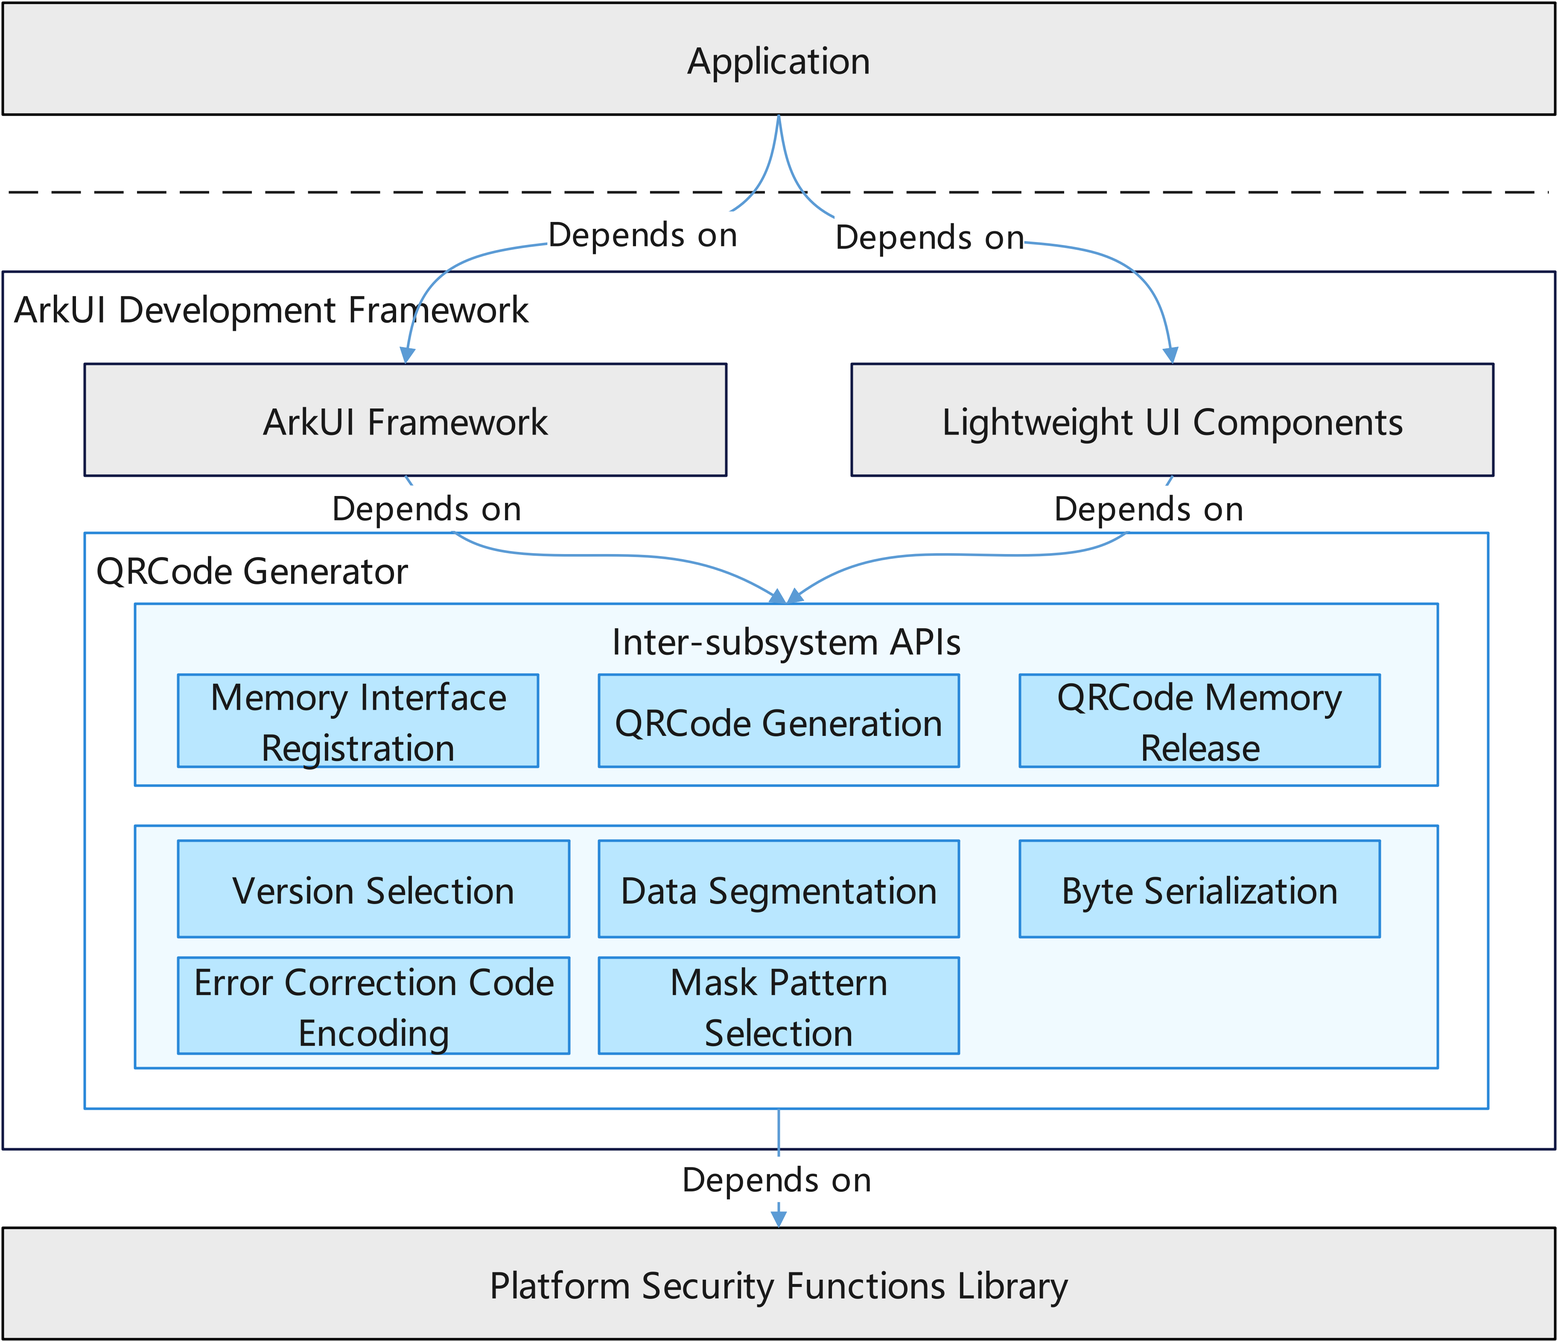
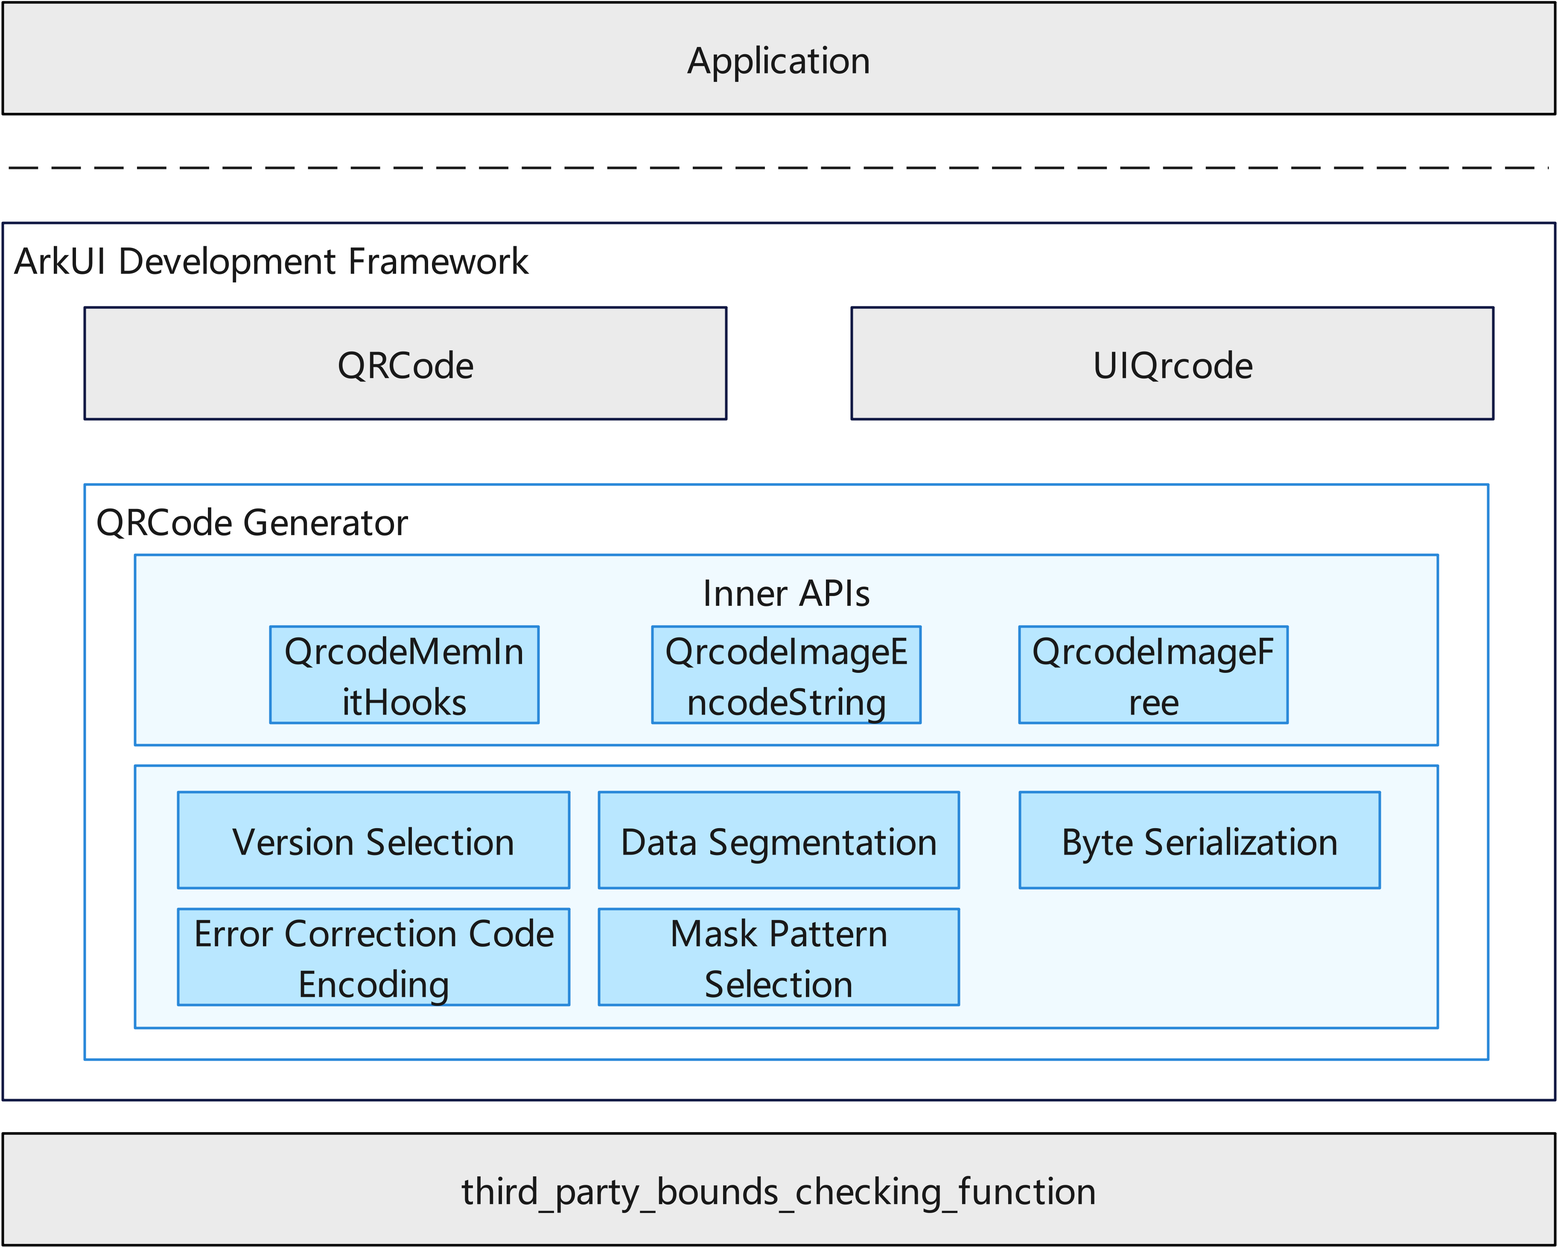
修改架构图和readme

diff --git a/README.md b/README.md
@@ -1,50 +1,39 @@
-# QRCode Generator<a name="EN-US_TOPIC_0000000000000001"></a>
-
--   [Introduction](#section1111111111111)
--   [Architecture](#section2222222222222)
--   [Directory Structure](#section3333333333333)
--   [Constraints](#section4444444444444)
--   [Build](#section5555555555555_b)
--   [Usage](#section5555555555555)
-    -   [Available APIs](#section6666666666666)
-    -   [Usage Guidelines](#section7777777777777)
--   [Third-Party Dependencies](#section9999999999999)
+# QR Code Generator<a name="ZH-CN_TOPIC_0000000000000001">
 
 ## Introduction<a name="section1111111111111"></a>
 
-The QRCode Generator provides QRCode generation capability for the OpenHarmony system. QRCode is a widely-used encoding technology that has been proven in the market. It features high information capacity, strong reliability, and excellent confidentiality and anti-counterfeiting properties. The QRCode Generator follows the ISO/IEC 18004:2015 standard, supporting QRCode generation from Version 1 to Version 40, with flexible error correction level options.
+The QR Code Generator provides QR code generation capability for the OpenHarmony system. QR code is a widely-used encoding technology that has stood the test of market verification. It offers high information capacity, reliability, and strong confidentiality and anti-counterfeiting features. The QR Code Generator follows the [**ISO/IEC 18004:2015 standard**](https://www.iso.org/obp/ui/es/#iso:std:iso-iec:18004:ed-3:v1:en), supporting QR Code generation from Version 1 to Version 40, with flexible error correction level options.
 
--   **Encoding Mode Support:** The QRCode Generator supports Numeric mode, Alphanumeric mode, and Byte mode to meet various data encoding requirements.
+-   **Encoding Mode Support:** The QR Code Generator supports Numeric mode, Alphanumeric mode, and Byte mode, meeting data encoding requirements for different scenarios.
+-   **Error Correction Capability:** Depending on the error correction level, QR codes can be successfully decoded even when 25% to 30% of the codewords are obscured, ensuring the QR code can still be scanned even when partially damaged.
+-   **Memory Management:** Provides custom memory allocation hooks, allowing developers to inject their own memory management functions for memory optimization on embedded devices.
+-   **Form Support:** Supports three forms: standard, mini, and small. The standard form is used for the QRCode control, the mini form is used for the UIQrcode control, and the small form is not currently used by any control.
 
--   **Error Correction Capability:** Depending on the error correction level, QRCode can be successfully decoded even when 25% to 30% of the codewords are obscured, ensuring the QRCode remains scannable even with partial damage.
+## System Architecture<a name="section2222222222222"></a>
 
--   **Memory Management:** Provides customizable memory allocation hooks, allowing developers to inject their own memory management functions for easier memory optimization on embedded devices.
+**Figure 1**  QR Code Generator Architecture<a name="fig1111111111111"></a>
 
-## Architecture<a name="section2222222222222"></a>
+![](figures/qrcode_generator.png "QR Code Generator Architecture")
 
-**Figure  1**  QRCode Generator architecture<a name="fig1111111111111"></a>  
-![](figures/qrcode_generator.png "qrcode-generator-architecture")
+-   **External Interface Layer:** Provides internal API interfaces for QR code generation, including image encoding and memory management.
 
--   **Public Interface Layer:** Provides public APIs for QRCode generation, including image encoding and memory management interfaces;
+-   **Data Encoding:** Encodes input character stream information, including version selection, data segmentation, byte serialization, error correction code encoding, and mask selection modules.
 
--   **Encoding Core Layer:** Handles core algorithms including data encoding, error correction encoding, and matrix layout;
-
--   **Data Structure Layer:** Manages QRCode list, block data, and merge code data structures.
 
 ## Directory Structure<a name="section3333333333333"></a>
 
 ```
 /foundation/arkui/qrcode
-├── interfaces/kits/qrcode_generator.h    # QRCode Generator public interface
-├── interfaces/innerkits/                 # QRCode Generator internal headers
-│       ├── qrcode_inner.h                # Internal data structures
+├── interfaces/kits/qrcode_generator.h    # QR Code Generator public interface
+├── interfaces/innerkits/                 # QR Code Generator internal header files
+│       ├── qrcode_inner.h                # Internal data structure definition
 │       ├── qrcode_version.h              # Version management
 │       ├── qrcode_stream.h               # Data stream processing
 │       ├── qrcode_rscode.h               # RS error correction encoding
 │       ├── qrcode_mask.h                 # Mask processing
 │       ├── qrcode_item.h                 # Data item processing
 │       └── qrcode_list.h                 # Linked list operations
-├── frameworks/                           # QRCode core implementation
+├── frameworks/                           # QR Code core implementation
 │       ├── qrcode_generator.cpp          # Generator main entry
 │       ├── qrcode_version.cpp            # Version processing
 │       ├── qrcode_string.cpp             # String processing
@@ -53,30 +42,28 @@ The QRCode Generator provides QRCode generation capability for the OpenHarmony s
 │       ├── qrcode_mask.cpp               # Mask processing
 │       └── qrcode_item.cpp               # Data item processing
 ├── test/unittest/common/                 # Unit test code
-│       ├── qrcode_generator_test.cpp     # Generator test
-│       ├── qrcode_version_test.cpp       # Version test
-│       ├── qrcode_stream_test.cpp        # Stream test
-│       ├── qrcode_item_test.cpp          # Item test
-│       ├── qrcode_mask_test.cpp          # Mask test
-│       └── qrcode_rscode_test.cpp        # RS code test
+│       ├── qrcode_generator_test.cpp     # Generator tests
+│       ├── qrcode_version_test.cpp       # Version tests
+│       ├── qrcode_stream_test.cpp        # Data stream tests
+│       ├── qrcode_item_test.cpp          # Data item tests
+│       ├── qrcode_mask_test.cpp          # Mask tests
+│       └── qrcode_rscode_test.cpp        # RS error correction tests
 └── patches/                              # Patch files
     └── patches.json                      # Patch configuration
 ```
 
 ## Constraints<a name="section4444444444444"></a>
 
-- The QRCode Generator follows the ISO/IEC 18004:2015 standard.
-- Supported versions range from Version 1 to Version 40, with a maximum size of 177×177 pixels.
-- Input text length is limited by version and error correction level; actual usable length is calculated at runtime.
-- The input character stream must not exceed the maximum data capacity of Version 40 at H-level error correction (approximately 1852 bytes). QR codes cannot be generated if this length is exceeded.
-- Only square QR code output is supported; other shapes (such as rectangle, circle, etc.) are not supported.
-- Byte mode uses UTF-8 encoding by default.
+- The input text length is limited by version and error correction level. The actual usable length is calculated at runtime. For example: With H-level error correction, the input character code must not exceed the maximum data capacity of Version 40 (approximately 1852 bytes). QR codes cannot be generated if this length is exceeded.
+- After inputting character code stream, the QR Code Generator automatically selects the minimum Version that can contain the data. When Version is 40, the maximum size is 177×177 pixels (px).
+- Only square QR code output is supported. Other shapes (such as rectangles, circles, etc.) are not supported.
+- When using Byte mode, UTF-8 encoding is used by default.
 
-## Build<a name="section5555555555555_b"></a>
+## Building<a name="section5555555555555_b"></a>
 
-Use the following commands to compile for different target platforms:
+Use the following command to build for different target platforms:
 
-**Compile qrcode component for 32-bit ARM system**
+**Build qrcode component for 32-bit ARM system**
 
 ```bash
 ./build.sh --product-name {product_name} --ccache --build-target qrcodegenerator
@@ -85,14 +72,14 @@ Use the following commands to compile for different target platforms:
 > **Note:**
 > `{product_name}` is the currently supported platform name, for example `rk3568`.
 
-## Usage<a name="section5555555555555"></a>
+## Description<a name="section5555555555555"></a>
 
-The QRCode Generator provides public APIs for system components or applications to generate QRCode.
+The QR Code Generator provides public interfaces for system components or applications to generate QR codes.
 
-### Available APIs<a name="section6666666666666"></a>
+### Interface Description<a name="section6666666666666"></a>
 
 <a name="table1111111111111"></a>
-<table><thead align="left"><tr id="row1111111111111"><th class="cellrowborder" valign="top" width="50.22%" id="mcps1.1.3.1.1"><p id="p1111111111111"><a name="p1111111111111"></a><a name="p1111111111111"></a>API</p>
+<table><thead align="left"><tr id="row1111111111111"><th class="cellrowborder" valign="top" width="50.22%" id="mcps1.1.3.1.1"><p id="p1111111111111"><a name="p1111111111111"></a><a name="p1111111111111"></a>Interface Name</p>
 </th>
 <th class="cellrowborder" valign="top" width="49.78%" id="mcps1.1.3.1.2"><p id="p2222222222222"><a name="p2222222222222"></a><a name="p2222222222222"></a>Description</p>
 </th>
@@ -100,32 +87,33 @@ The QRCode Generator provides public APIs for system components or applications 
 </thead>
 <tbody><tr id="row2222222222222"><td class="cellrowborder" valign="top" width="50.22%" headers="mcps1.1.3.1.1 "><p id="p3333333333333"><a name="p3333333333333"></a><a name="p3333333333333"></a>QrcodeImage *QrcodeImageEncodeString(const char *text, QRCODE_ECC qrEcc)</p>
 </td>
-<td class="cellrowborder" valign="top" width="49.78%" headers="mcps1.1.3.1.2 "><p id="p4444444444444"><a name="p4444444444444"></a><a name="p4444444444444"></a>Encodes a string into a QRCode image.</p>
+<td class="cellrowborder" valign="top" width="49.78%" headers="mcps1.1.3.1.2 "><p id="p4444444444444"><a name="p4444444444444"></a><a name="p4444444444444"></a>Encodes a string into a QR code image</p>
 </td>
 </tr>
 <tr id="row3333333333333"><td class="cellrowborder" valign="top" width="50.22%" headers="mcps1.1.3.1.1 "><p id="p5555555555555"><a name="p5555555555555"></a><a name="p5555555555555"></a>void QrcodeImageFree(QrcodeImage *qrImage)</p>
 </td>
-<td class="cellrowborder" valign="top" width="49.78%" headers="mcps1.1.3.1.2 "><p id="p6666666666666"><a name="p6666666666666"></a><a name="p6666666666666"></a>Frees QRCode image memory.</p>
+<td class="cellrowborder" valign="top" width="49.78%" headers="mcps1.1.3.1.2 "><p id="p6666666666666"><a name="p6666666666666"></a><a name="p6666666666666"></a>Frees QR code image memory</p>
 </td>
 </tr>
 <tr id="row4444444444444"><td class="cellrowborder" valign="top" width="50.22%" headers="mcps1.1.3.1.1 "><p id="p7777777777777"><a name="p7777777777777"></a><a name="p7777777777777"></a>void QrcodeMemInitHooks(const QrcodeMemHooks *hooks)</p>
 </td>
-<td class="cellrowborder" valign="top" width="49.78%" headers="mcps1.1.3.1.2 "><p id="p8888888888888"><a name="p8888888888888"></a>Initializes custom memory allocation hooks.</p>
+<td class="cellrowborder" valign="top" width="49.78%" headers="mcps1.1.3.1.2 "><p id="p8888888888888"><a name="p8888888888888"></a><a name="p8888888888888"></a>Initializes custom memory allocation hooks</p>
 </td>
 </tr>
 </tbody>
 </table>
 
-#### Error Correction Levels<a name="section6666666666666_ecc"></a>
+#### Error Correction Level Description<a name="section6666666666666_ecc"></a>
 
 <a name="table2222222222222"></a>
+
 <table><thead align="left"><tr id="row5555555555555"><th class="cellrowborder" valign="top" width="20%" id="mcps1.1.3.2.1"><p id="p1111111111112"><a name="p1111111111112"></a><a name="p1111111111112"></a>Level</p>
 </th>
 <th class="cellrowborder" valign="top" width="20%" id="mcps1.1.3.2.2"><p id="p2222222222223"><a name="p2222222222223"></a><a name="p2222222222223"></a>Enum Value</p>
 </th>
 <th class="cellrowborder" valign="top" width="20%" id="mcps1.1.3.2.3"><p id="p3333333333334"><a name="p3333333333334"></a><a name="p3333333333334"></a>Error Correction Capability</p>
 </th>
-<th class="cellrowborder" valign="top" width="40%" id="mcps1.1.3.2.4"><p id="p4444444444445"><a name="p4444444444445"></a><a name="p4444444444445"></a>Use Cases</p>
+<th class="cellrowborder" valign="top" width="40%" id="mcps1.1.3.2.4"><p id="p4444444444445"><a name="p4444444444445"></a><a name="p4444444444445"></a>Applicable Scenario</p>
 </th>
 </tr>
 </thead>
@@ -133,7 +121,7 @@ The QRCode Generator provides public APIs for system components or applications 
 </td>
 <td class="cellrowborder" valign="top" width="20%" headers="mcps1.1.3.2.2 "><p id="p8888888888889"><a name="p8888888888889"></a><a name="p8888888888889"></a>QRCODE_ECC_MEDIUM</p>
 </td>
-<td class="cellrowborder" valign="top" width="20%" headers="mcps1.1.3.2.3 "><p id="p9999999999999"><a name="p9999999999999"></a><a name="p9999999999999"></a>Approx. 15%</p>
+<td class="cellrowborder" valign="top" width="20%" headers="mcps1.1.3.2.3 "><p id="p9999999999999"><a name="p9999999999999"></a><a name="p9999999999999"></a>Approximately 15%</p>
 </td>
 <td class="cellrowborder" valign="top" width="40%" headers="mcps1.1.3.2.4 "><p id="p1010101010101"><a name="p1010101010101"></a><a name="p1010101010101"></a>General scenarios, balancing capacity and error correction</p>
 </td>
@@ -142,33 +130,34 @@ The QRCode Generator provides public APIs for system components or applications 
 </td>
 <td class="cellrowborder" valign="top" width="20%" headers="mcps1.1.3.2.2 "><p id="p2222222222224"><a name="p2222222222224"></a><a name="p2222222222224"></a>QRCODE_ECC_HIGH</p>
 </td>
-<td class="cellrowborder" valign="top" width="20%" headers="mcps1.1.3.2.3 "><p id="p3333333333335"><a name="p3333333333335"></a><a name="p3333333333335"></a>Approx. 30%</p>
+<td class="cellrowborder" valign="top" width="20%" headers="mcps1.1.3.2.3 "><p id="p3333333333335"><a name="p3333333333335"></a><a name="p3333333333335"></a>Approximately 30%</p>
 </td>
-<td class="cellrowborder" valign="top" width="40%" headers="mcps1.1.3.2.4 "><p id="p4444444444446"><a name="p4444444444446"></a><a name="p4444444444446"></a>High reliability requirements (industrial, medical, etc.)</p>
+<td class="cellrowborder" valign="top" width="40%" headers="mcps1.1.3.2.4 "><p id="p4444444444446"><a name="p4444444444446"></a><a name="p4444444444446"></a>High reliability requirement scenarios (industrial, medical, etc.)</p>
 </td>
 </tr>
 </tbody>
 </table>
 
-**Notes:**
-- Higher error correction levels allow recovery of more damaged data, but reduce available data capacity.
-- Error correction is implemented using Reed-Solomon (RS) codes.
+**Note:**
+- Higher error correction levels allow recovery of larger proportions of damage, but the available data capacity is reduced accordingly.
+- The error correction algorithm is implemented using Reed-Solomon (RS) codes.
 
-### Usage Guidelines<a name="section7777777777777"></a>
 
-Call the QRCode Generator API to encode text into a QRCode image:
+### Usage<a name="section7777777777777"></a>
+
+Call the QR Code Generator interface to encode text into a QR code image:
 
 ```
 QrcodeImage *qrImage = QrcodeImageEncodeString("https://openharmony.cn", QRCODE_ECC_MEDIUM);
 if (qrImage != NULL) {
-    // Use qrImage->data to generate QRCode image
+    // Use qrImage->data to generate QR code image
     // qrImage->width is the image width
-    // qrImage->version is the actual QRCode version used
+    // qrImage->version is the actual QR code version used
     QrcodeImageFree(qrImage);
 }
 ```
 
-To customize memory allocation:
+For custom memory allocation:
 
 ```
 QrcodeMemHooks hooks = {
@@ -180,4 +169,4 @@ QrcodeMemInitHooks(&hooks);
 
 ## Third-Party Dependencies<a name="section9999999999999"></a>
 
-This module depends on the Platform Security Functions Library (bounds_checking_function), which provides secure string processing and memory operation functions. For specific dependency details, refer to the external_deps configuration in the BUILD.gn file.
+This module depends on the platform foundation security function library ([**bounds_checking_function**](https://gitcode.com/openharmony/third_party_bounds_checking_function)), which provides secure string processing and memory operation functions. For specific dependency details, refer to the external_deps configuration in the BUILD.gn file.

diff --git a/README_zh.md b/README_zh.md
@@ -1,25 +1,13 @@
-# 二维码生成器<a name="ZH-CN_TOPIC_0000000000000001"></a>
-
--   [简介](#section1111111111111)
--   [系统架构图](#section2222222222222)
--   [目录](#section3333333333333)
--   [约束](#section4444444444444)
--   [编译构建](#section5555555555555_b)
--   [说明](#section5555555555555)
-    -   [接口说明](#section6666666666666)
-    -   [使用说明](#section7777777777777)
-
--   [第三方依赖](#section9999999999999)
+# 二维码生成器<a name="ZH-CN_TOPIC_0000000000000001">
 
 ## 简介<a name="section1111111111111"></a>
 
-二维码生成器为OpenHarmony系统提供二维码生成能力。二维码是一种经得起市场考验的被广泛使用的编码技术，它具有信息容量大、可靠性高、保密防伪性强的优点。二维码生成器遵循ISO/IEC 18004:2015标准实现，支持Version 1到Version 40的二维码生成，并提供了灵活的错误纠正等级选择。
+二维码生成器为OpenHarmony系统提供二维码生成能力。二维码是一种经得起市场考验的被广泛使用的编码技术，它具有信息容量大、可靠性高、保密防伪性强的优点。二维码生成器遵循[**ISO/IEC 18004:2015标准**](https://www.iso.org/obp/ui/es/#iso:std:iso-iec:18004:ed-3:v1:en)实现，支持Version 1到Version 40的二维码生成，并提供了灵活的错误纠正等级选择。
 
 -   **编码模式支持：** 二维码生成器支持数字模式（Numeric）、字母数字模式（Alphanumeric）和字节模式（Byte），能够满足不同场景下的数据编码需求。
-
--   **错误纠正能力：** 根据纠错等级的不同，二维码可以在25%到30%的码字被遮挡的情况下成功解码，保证了二维码在部分损坏时仍能被正常扫描。
-
+-   **错误纠正能力：** 根据纠错等级的不同，可以在二维码25%到30%的码字被遮挡的情况下成功解码，保证了二维码在部分损坏时仍能被正常扫描。
 -   **内存管理：** 提供自定义内存分配钩子，允许开发者注入自己的内存管理函数，便于在嵌入式设备中进行内存优化。
+-   **形态支持：** 支持standard、mini、small三种形态。其中standard形态使用场景为QRCode控件，mini形态使用场景为UIQrcode控件，small形态暂无控件使用。
 
 ## 系统架构图<a name="section2222222222222"></a>
 
@@ -27,11 +15,10 @@
 
 ![](figures/zh-cn_qrcode_generator.png "二维码生成器架构图")
 
--   **对外接口层：** 提供二维码生成的公共API，包括图像编码和内存管理接口；
+-   **对外接口层：** 提供二维码生成的内部API接口，包括图像编码和内存管理。
 
--   **编码核心层：** 完成数据编码、纠错编码、矩阵布局等核心算法；
+-   **数据编码：** 对输入字符码流信息进行编码，包括版本选择、数据分段、字节序列化、纠错码编码、掩码选择模块。
 
--   **数据结构层：** 管理二维码的列表、块数据、合并码等数据结构。
 
 ## 目录<a name="section3333333333333"></a>
 
@@ -67,10 +54,8 @@
 
 ## 约束<a name="section4444444444444"></a>
 
-- 二维码生成器遵循ISO/IEC 18004:2015标准。
-- 支持的版本范围为Version 1到Version 40，最大尺寸为177×177像素。
-- 输入文本长度受版本和纠错等级限制，实际可用长度由运行时计算得出。
-- 输入字符码流不得超过Version 40最大版本在H级别纠错下的最大数据容量（约1852字节），超出此长度将无法生成二维码。
+- 输入文本长度受版本和纠错等级限制，实际可用长度由运行时计算得出。例如：在H级别纠错下，输入字符码不得超过Version 40的最大数据容量（约1852字节），超出此长度将无法生成二维码。
+- 输入字符码流后，二维码生成器会自动选择最小能包含数据的Version进行编码，Version为40时最大尺寸为177×177像素（px）。
 - 仅支持正方形二维码输出，不支持其他形状（如矩形、圆形等）。
 - 使用字节模式时，默认使用UTF-8编码。
 
@@ -183,4 +168,5 @@ QrcodeMemInitHooks(&hooks);
 
 ## 第三方依赖<a name="section9999999999999"></a>
 
-本模块依赖于平台基础安全函数库（bounds_checking_function），该模块提供安全字符串处理和内存操作函数。具体依赖关系请参见 BUILD.gn 文件中的 external_deps 配置。
+本模块依赖于平台基础安全函数库（[**bounds_checking_function**](https://gitcode.com/openharmony/third_party_bounds_checking_function)），该模块提供安全字符串处理和内存操作函数。具体依赖关系请参见 BUILD.gn 文件中的 external_deps 配置。
+
